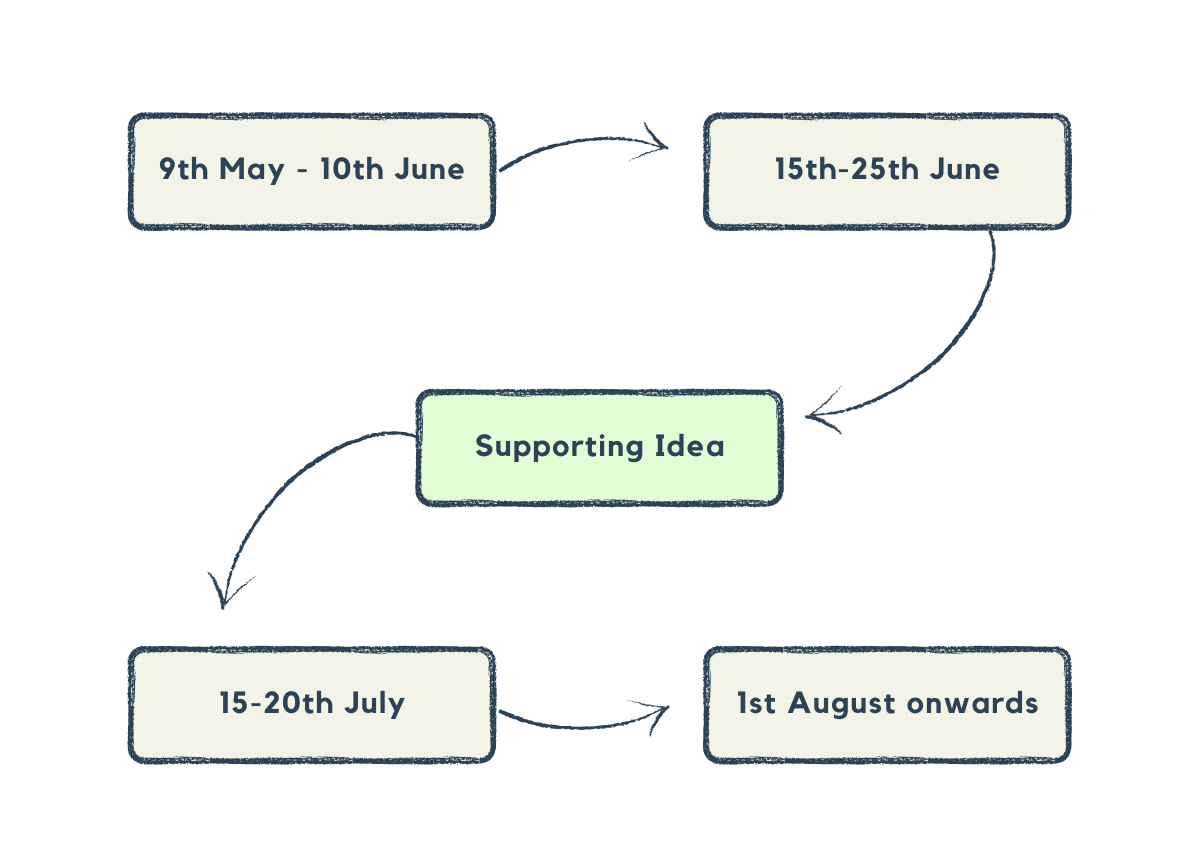
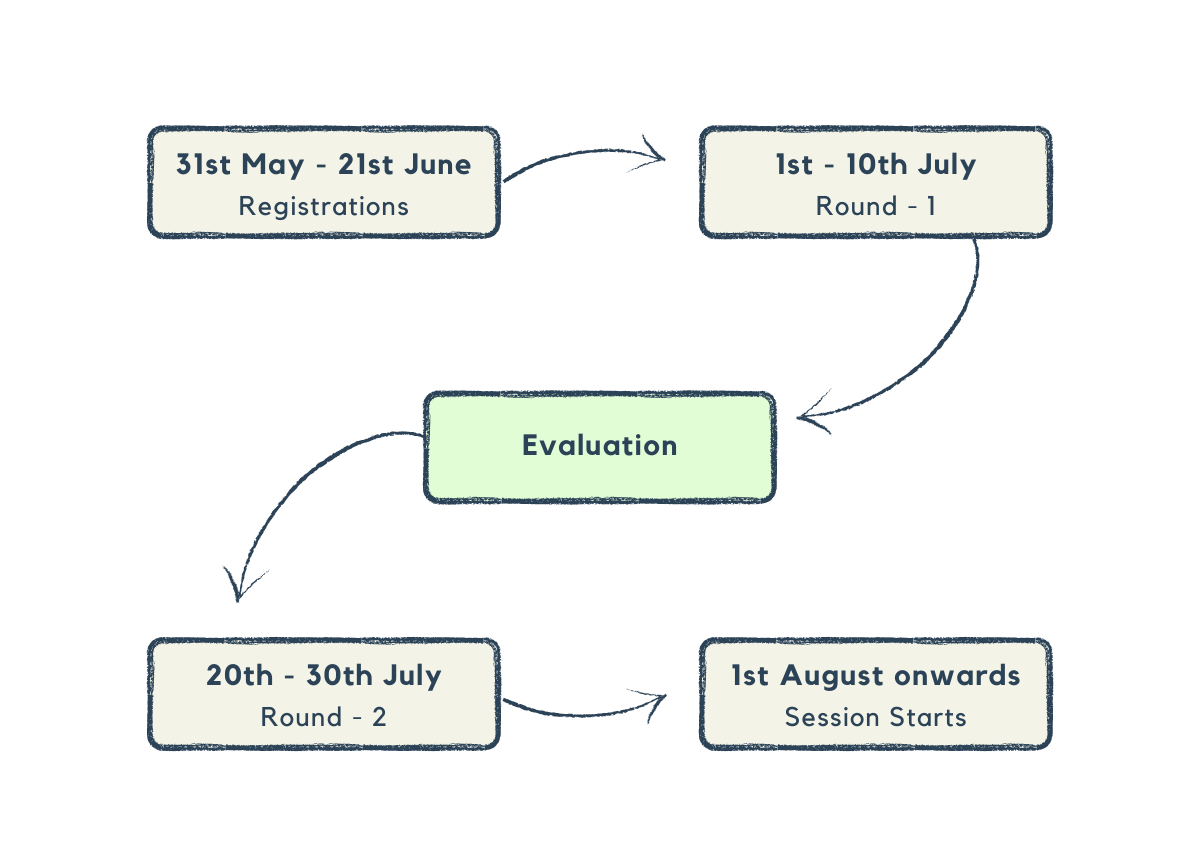
fix

diff --git a/pages/index.js b/pages/index.js
@@ -72,7 +72,7 @@ export default function Home() {
               <span className="text-primary_green-0">#Eco-conscious &nbsp;</span>
               program by Team Green Organization.
               <br />
-              <b className="text-[#2B4257]"> 25th May - 15th June 2024 </b>
+              <b className="text-[#2B4257]"> 31st May - 21st June 2024 </b>
             </div>
 
             <br></br>
